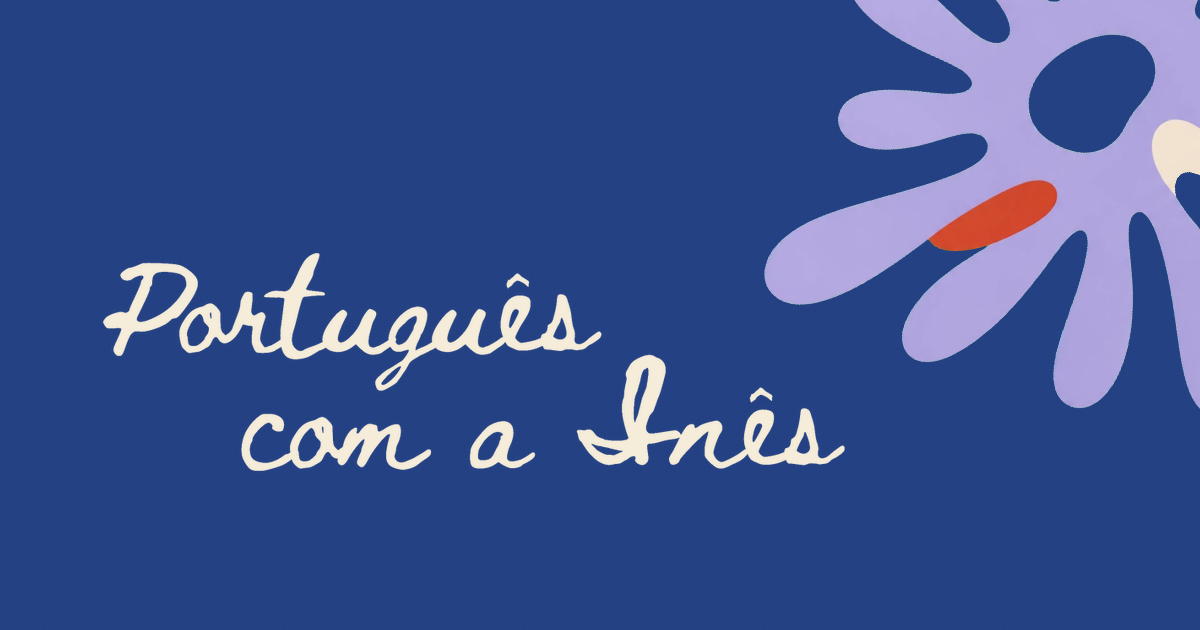
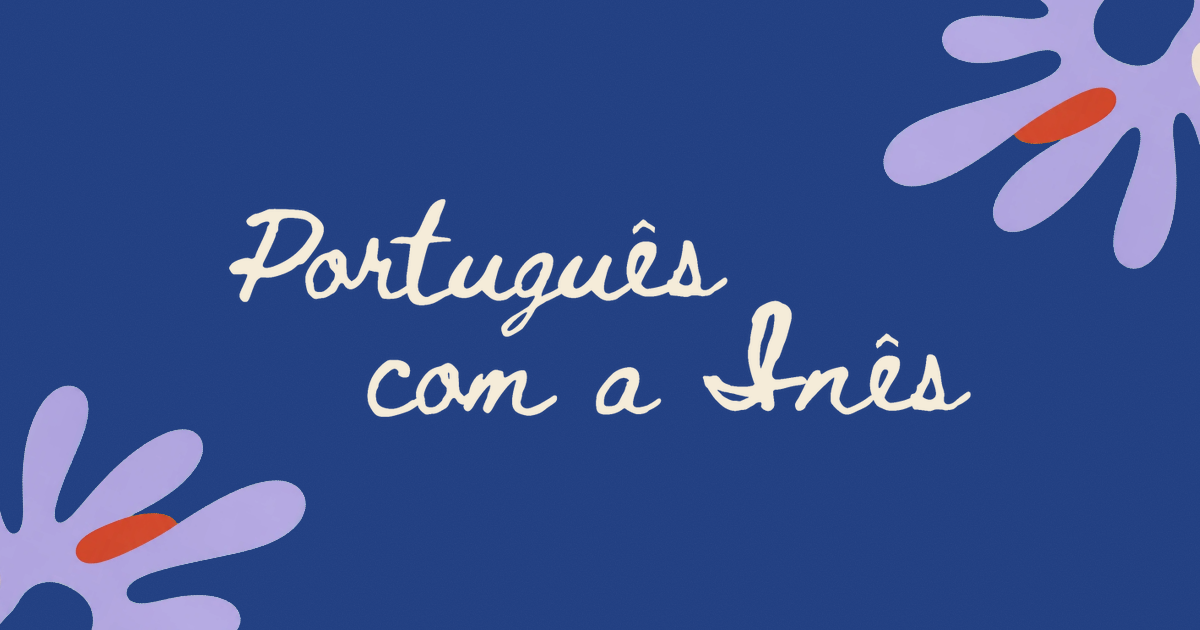
Centre Inês’s lettering between two painted corners on shared links (#276)

Changed region(s): [[0.0, 0.0, 1.0, 1.0]]

diff --git a/src/lib/page-metadata.ts b/src/lib/page-metadata.ts
@@ -4,11 +4,11 @@ import type { Metadata } from "next";
 export const SITE_URL = "https://portuguesewithines.com";
 
 export const shareImage = {
-  url: "/og.png?v=20261126",
+  url: "/og.png?v=20261126b",
   width: 1200,
   height: 630,
   type: "image/png",
-  alt: `${BRAND} in cream script on deep blue. A lavender splat with a coral stroke runs off the top right corner.`
+  alt: `${BRAND} in cream script, centred on deep blue. Lavender splats with coral strokes come in from the top right and bottom left corners.`
 };
 
 /**

diff --git a/design/system/project/assets/Logos/README.md b/design/system/project/assets/Logos/README.md
@@ -2,5 +2,5 @@ Inês's wordmark and the site's icons, from `public/` and `src/app/` in the repo
 
 - `wordmark-cream.webp` is the master: her lettering of "Português com a Inês" in cream on transparency, 760 × 236 artwork. The site never shows it as an image: it is a mask (`--wordmark-image`) painted `blue` on cream (header) or `paper` on blue (footer), with the two circumflexes cut out as their own layers (see the Wordmark card). On a page here it shows cream, so view it on a dark tile.
 - `icon.png` is the browser-tab icon (`src/app/icon.png`): a cream-and-lavender splat with a coral accent on dark blue, replacing an earlier flower.
-- `og.png` is the 1200 × 630 picture for shared links. Inês's cream wordmark is the only lettering on the grainy `blue-deep` ground. The lavender splat enters from the top right, with its centre visible and clear space between its petals and the name. The link caption describes the lessons.
+- `og.png` is the 1200 × 630 picture for shared links. Inês's cream wordmark sits at its original size, centred horizontally and just above the middle of the grainy `blue-deep` ground. Lavender petals enter from the top right and bottom left, clear of the lettering. The link caption describes the lessons.
 - Never redraw the wordmark, set the name in Beth Ellen instead, recolour it, or place a mark beside it.

diff --git a/design/system/project/README.md b/design/system/project/README.md
@@ -215,7 +215,7 @@ The wordmark is Inês's own lettering of "Português com a Inês" (Wordmark): on
 
 ## Assets
 
-- **Logos.** `wordmark-cream.webp` is the 760 × 236 master. `icon.png` is the browser icon. On the share card (`og.png`), Inês's cream wordmark sits on the site's grainy deep blue. The open-centre lavender splat runs off the top and right edges.
+- **Logos.** `wordmark-cream.webp` is the 760 × 236 master. `icon.png` is the browser icon. On the share card (`og.png`), Inês's cream wordmark sits at full size, centred on the grainy deep blue. Her lavender splat enters from the top right and bottom left, with its coral strokes pointing towards the lettering.
 - **Splats:** the eight V2 marks students choose from, the FAQ question mark, and three generated marks (`relaxed-practical-blob.webp` for booking, `conversation-` and `build-confidence-splat-generated-v2.webp`).
 - **Fields:** the large painted fields that stay still under the page (the Approach fan, the Lessons open-centre splat, each with its phone crop) and `paper-grain.svg`.
 - **Email:** the banner, the four dabs and Meet's mark that the transactional emails draw with.

diff --git a/design/system/project/assets/Fields/README.md b/design/system/project/assets/Fields/README.md
@@ -2,5 +2,5 @@ The large painted fields that pages are laid on, and the paper's grain, from `pu
 
 - `cream-blue-fan-splat.webp` is How I teach's fan, beside the heading; `-mobile` is its phone crop (under 560px). The site also serves AVIF versions of both.
 - `open-centre-lavender-splat.webp` is the Lessons hero's splat on its blue panel, and the shared-link picture's; `-mobile` is its phone crop.
-- On the page, fields stay still with their tips clear of the edges and lettering. On the share card, the lavender petals run off the top and right edges.
+- On the page, fields stay still with their tips clear of the edges and lettering. On the share card, the lavender petals run off the top right and bottom left corners.
 - `paper-grain.svg` is the grain over every ground (`--paper-texture`), cream pages and blue bands alike. A 240px tile of black fractal noise at 7% alpha (an SVG filter), so it darkens any ground evenly; it tiles.

diff --git a/design/README.md b/design/README.md
@@ -391,8 +391,9 @@ the same identity or action:
 `design/business-cards/` contains the original business-card exports. They are
 historical brand references, not competing website specifications. The social
 share image pairs Inês's cream wordmark with the deep blue and paper grain of
-the site. The open-centre lavender splat from the lessons page runs off the
-top and right edges, clear of the lettering.
+the site. Her lettering sits just above centre. The open-centre lavender splat
+from the Lessons page enters from the top right and bottom left, with the coral
+strokes turned towards her name.
 
 `design/stickers/` contains the historical sticker sheet. Do not cut new
 production assets from it unless a new asset is deliberately reviewed and

diff --git a/README.md b/README.md
@@ -43,8 +43,8 @@ source resolution. Two worth knowing about:
 - The wordmark is only ever a CSS `mask-image` over `currentColor`, so the
   browser discards its RGB channels. It ships as an alpha-only WebP at 760px
   (the header renders 380px) rather than a 900px RGBA PNG — 45KB to 22KB.
-- The business-card-derived splat is retained for the generated social share
-  image only. It no longer loads in the home-page hero.
+- The same open-centre lavender splat appears on the Lessons page, in the
+  phone menu and in both corners of the share image.
 
 ## Delivery
 
